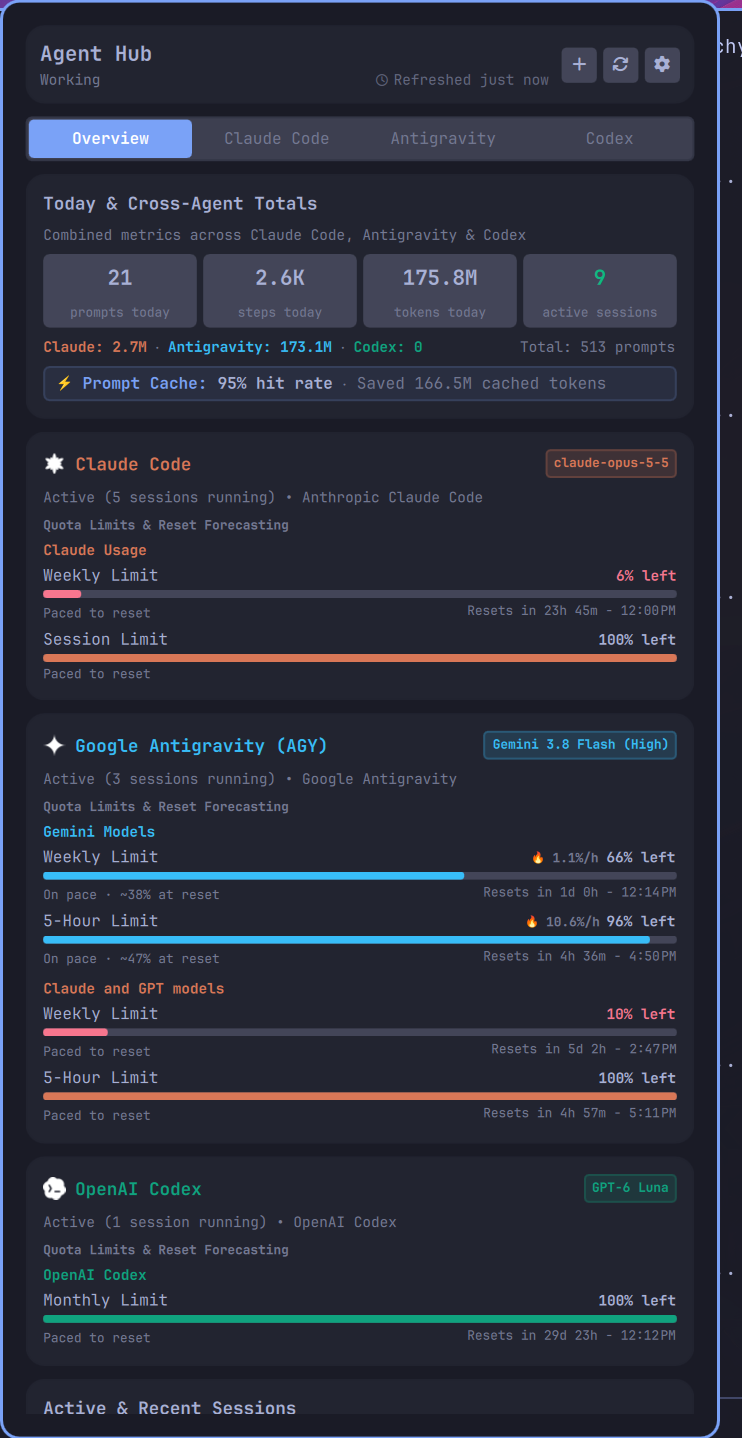
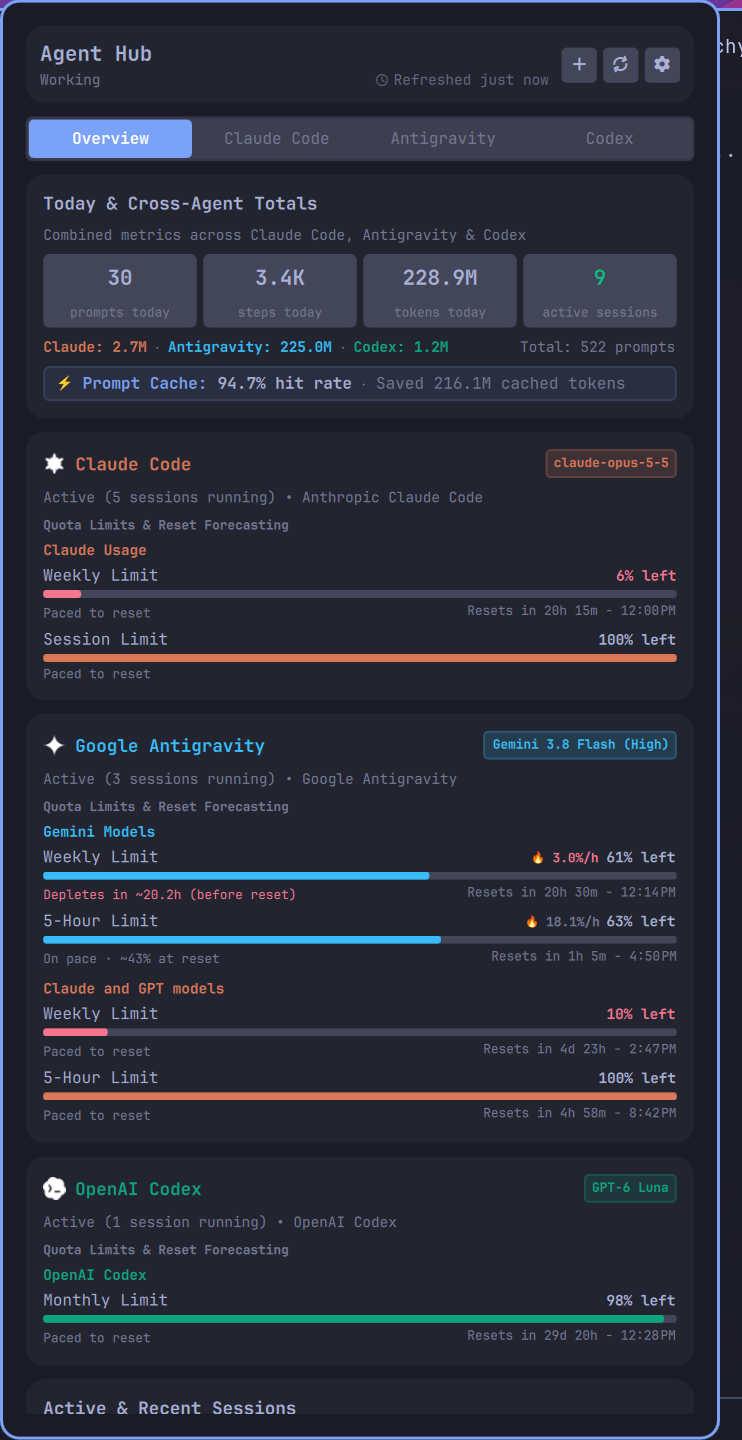
style(ui): rename overview section to 'Google Antigravity'

diff --git a/Widget.qml b/Widget.qml
@@ -1637,7 +1637,7 @@ BarWidget {
 
     // --- GOOGLE ANTIGRAVITY (AGY) DEDICATED SECTION ---
     SectionCard {
-      title: "Google Antigravity (AGY)"
+      title: "Google Antigravity"
       titleColor: "#38BDF8"
       icon: "assets/antigravity.svg"
       badgeText: (provider && provider.antigravityData && provider.antigravityData.currentModel) ? provider.antigravityData.currentModel : "Gemini"
